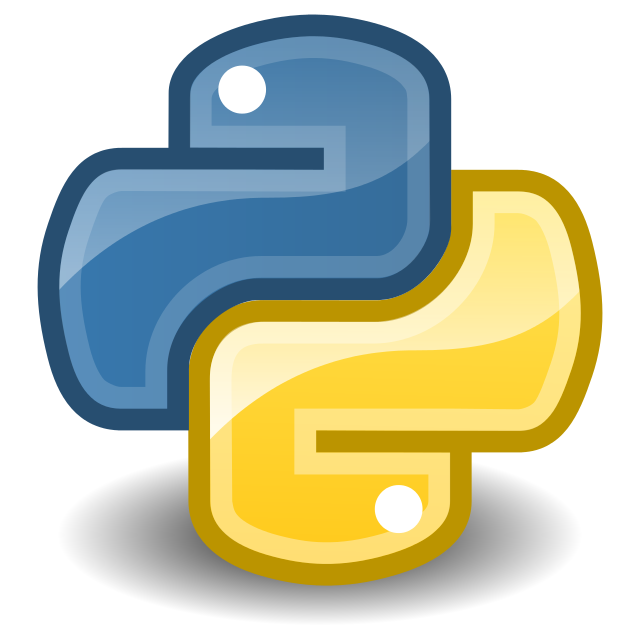
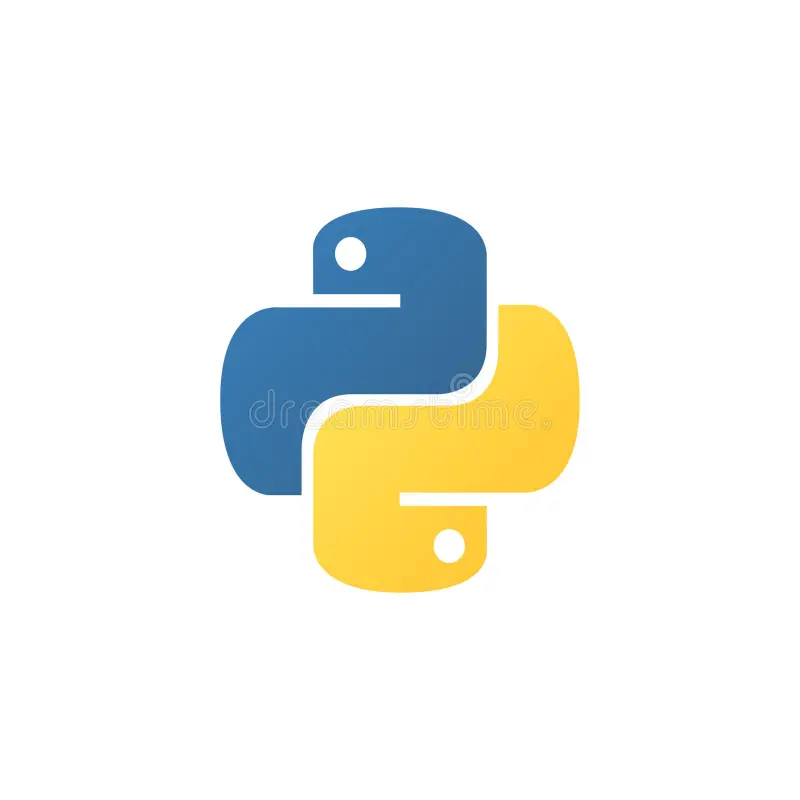
additions to skills page, new images and skills added

diff --git a/multiverse/skills.html b/multiverse/skills.html
@@ -62,24 +62,24 @@
 							<p>Programmer-friendly testing framework for Java and JVM.</p>
 						</article>
 						<article class="thumb">
-							<a href="images/fulls/04.jpg" class="image"><img src="images/thumbs/04.jpg" alt="" /></a>
-							<h2>Aliquam ipsum sed dolore</h2>
-							<p>Nunc blandit nisi ligula magna sodales lectus elementum non. Integer id venenatis velit.</p>
+							<a href="images/skills-images/flask.png" class="image"><img src="images/skills-images/flask.png" alt="" /></a>
+							<h2>Flask</h2>
+							<p>Lightweight web framework written in Python.</p>
 						</article>
 						<article class="thumb">
-							<a href="images/fulls/05.jpg" class="image"><img src="images/thumbs/05.jpg" alt="" /></a>
-							<h2>Cursis aliquam nisl</h2>
-							<p>Nunc blandit nisi ligula magna sodales lectus elementum non. Integer id venenatis velit.</p>
+							<a href="images/skills-images/python.png" class="image"><img src="images/skills-images/python.png" alt="" /></a>
+							<h2>Python</h2>
+							<p>High-level, dynamically typed, object-oriented programming language.</p>
 						</article>
 						<article class="thumb">
-							<a href="images/fulls/06.jpg" class="image"><img src="images/thumbs/06.jpg" alt="" /></a>
-							<h2>Sed consequat phasellus</h2>
-							<p>Nunc blandit nisi ligula magna sodales lectus elementum non. Integer id venenatis velit.</p>
+							<a href="images/skills-images/vue.png" class="image"><img src="images/skills-images/vue.png" alt="" /></a>
+							<h2>Vue.js</h2>
+							<p>JavaScript framework for building user inferfaces.</p>
 						</article>
 						<article class="thumb">
-							<a href="images/fulls/07.jpg" class="image"><img src="images/thumbs/07.jpg" alt="" /></a>
-							<h2>Mauris id tellus arcu</h2>
-							<p>Nunc blandit nisi ligula magna sodales lectus elementum non. Integer id venenatis velit.</p>
+							<a href="images/skills-images/postgres.jpeg" class="image"><img src="images/skills-images/postgres.jpeg" alt="" /></a>
+							<h2>PostgreSQL</h2>
+							<p>Open-souce relational database management system</p>
 						</article>
 						<article class="thumb">
 							<a href="images/fulls/08.jpg" class="image"><img src="images/thumbs/08.jpg" alt="" /></a>

diff --git a/index.html b/index.html
@@ -121,7 +121,6 @@
 								</footer>
 							</article>
 
-							
 						<!-- Post -->
 							<article class="post">
 								<header>
